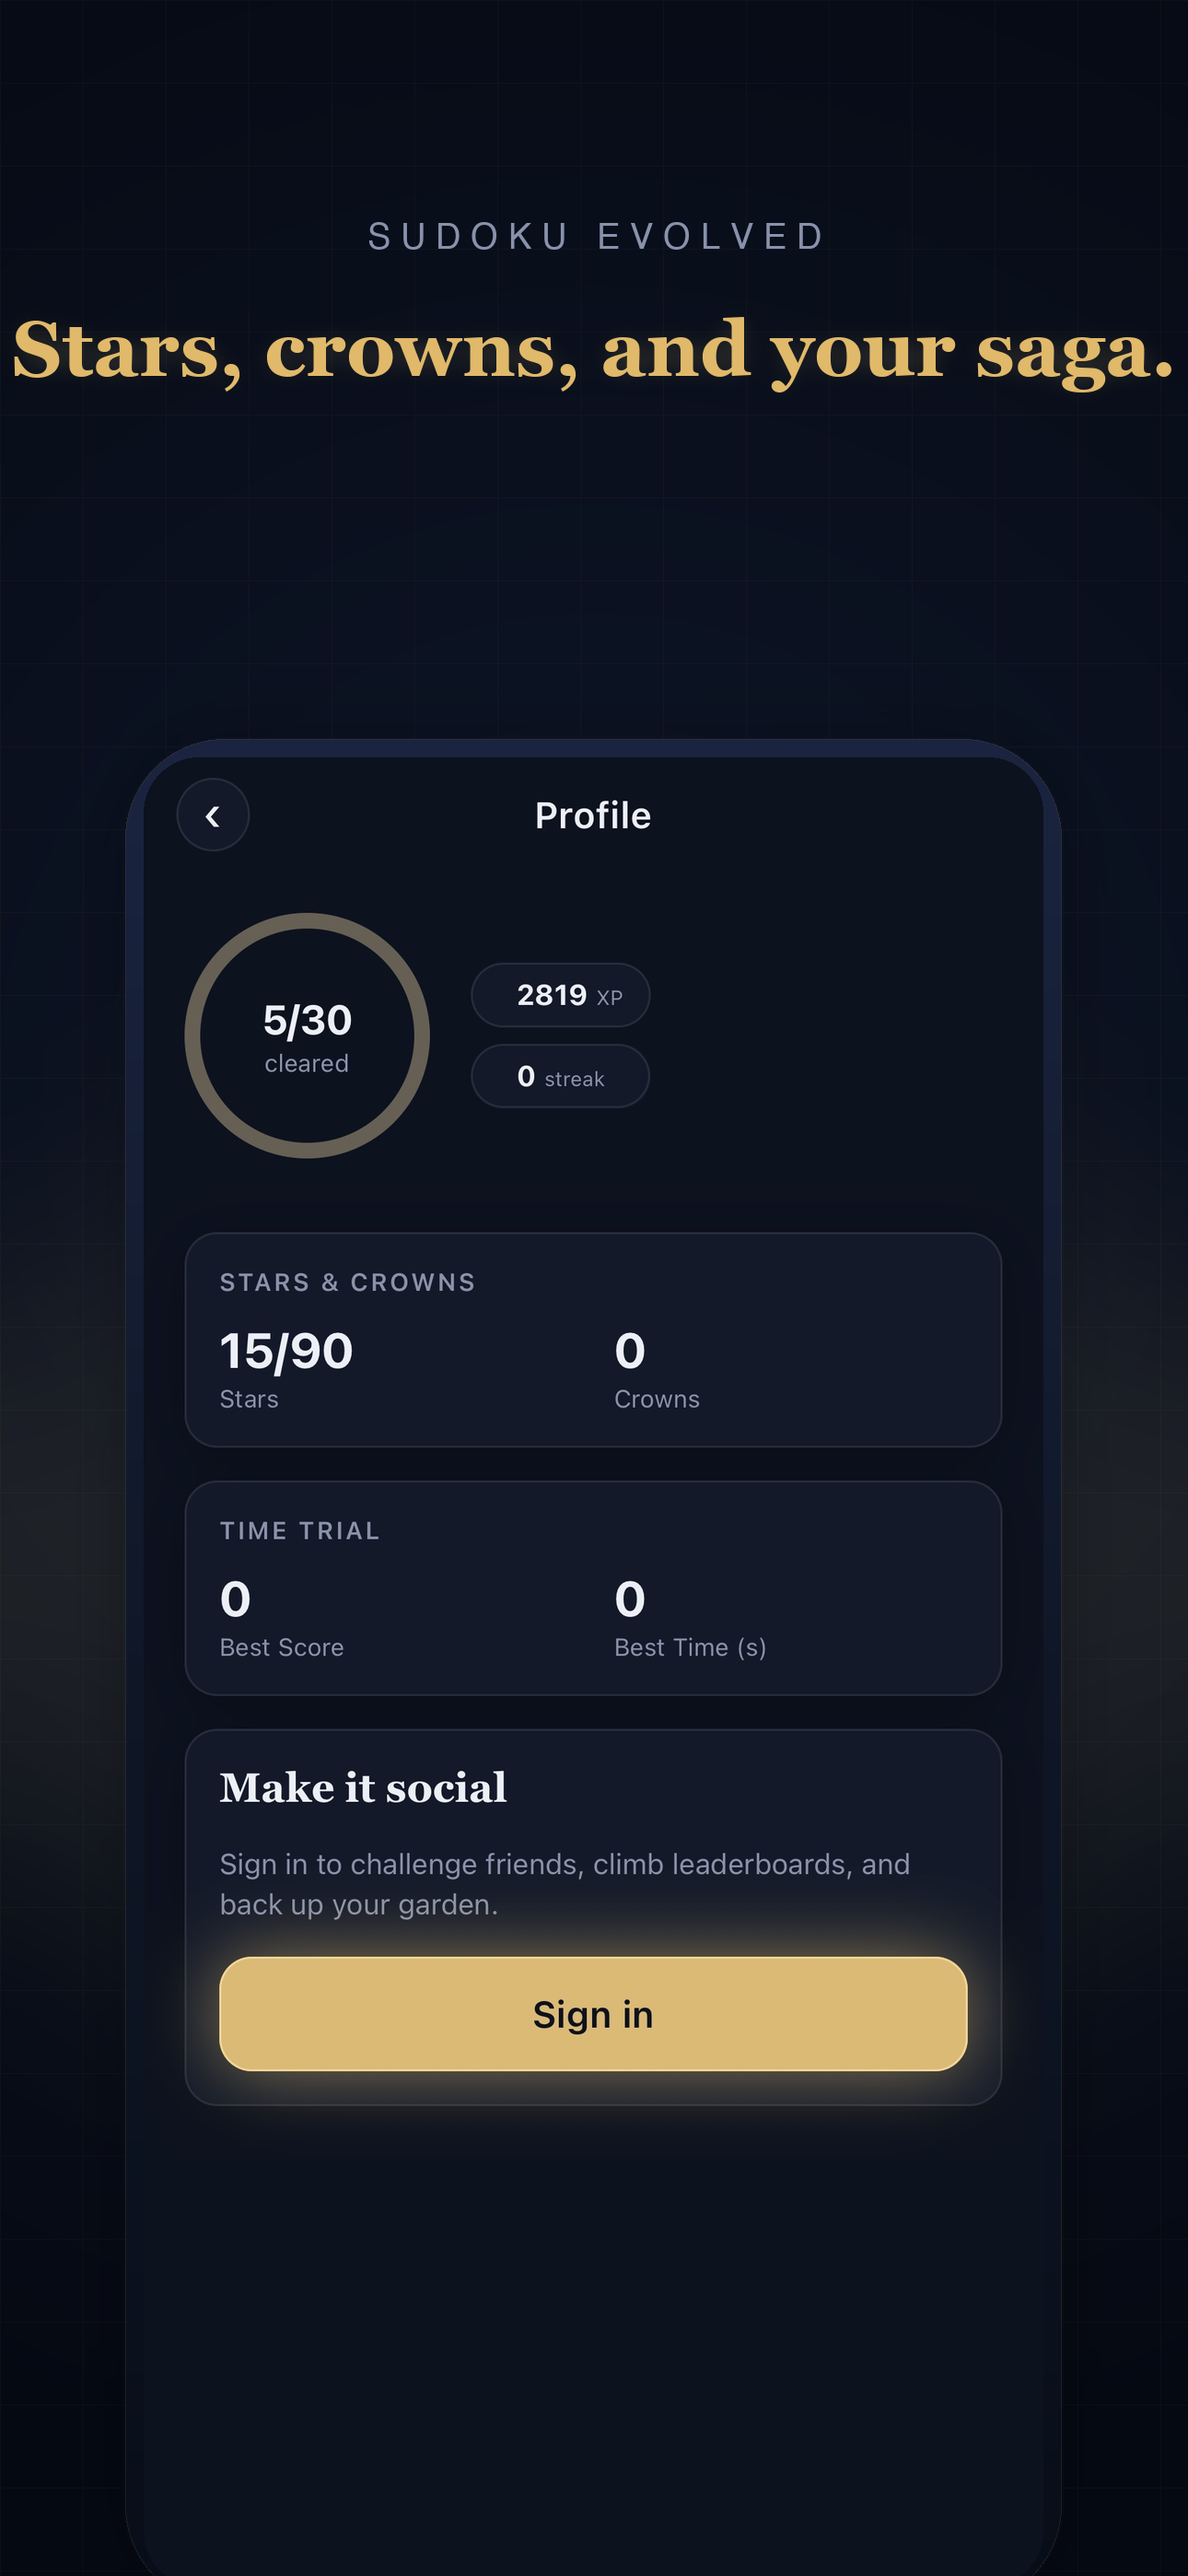
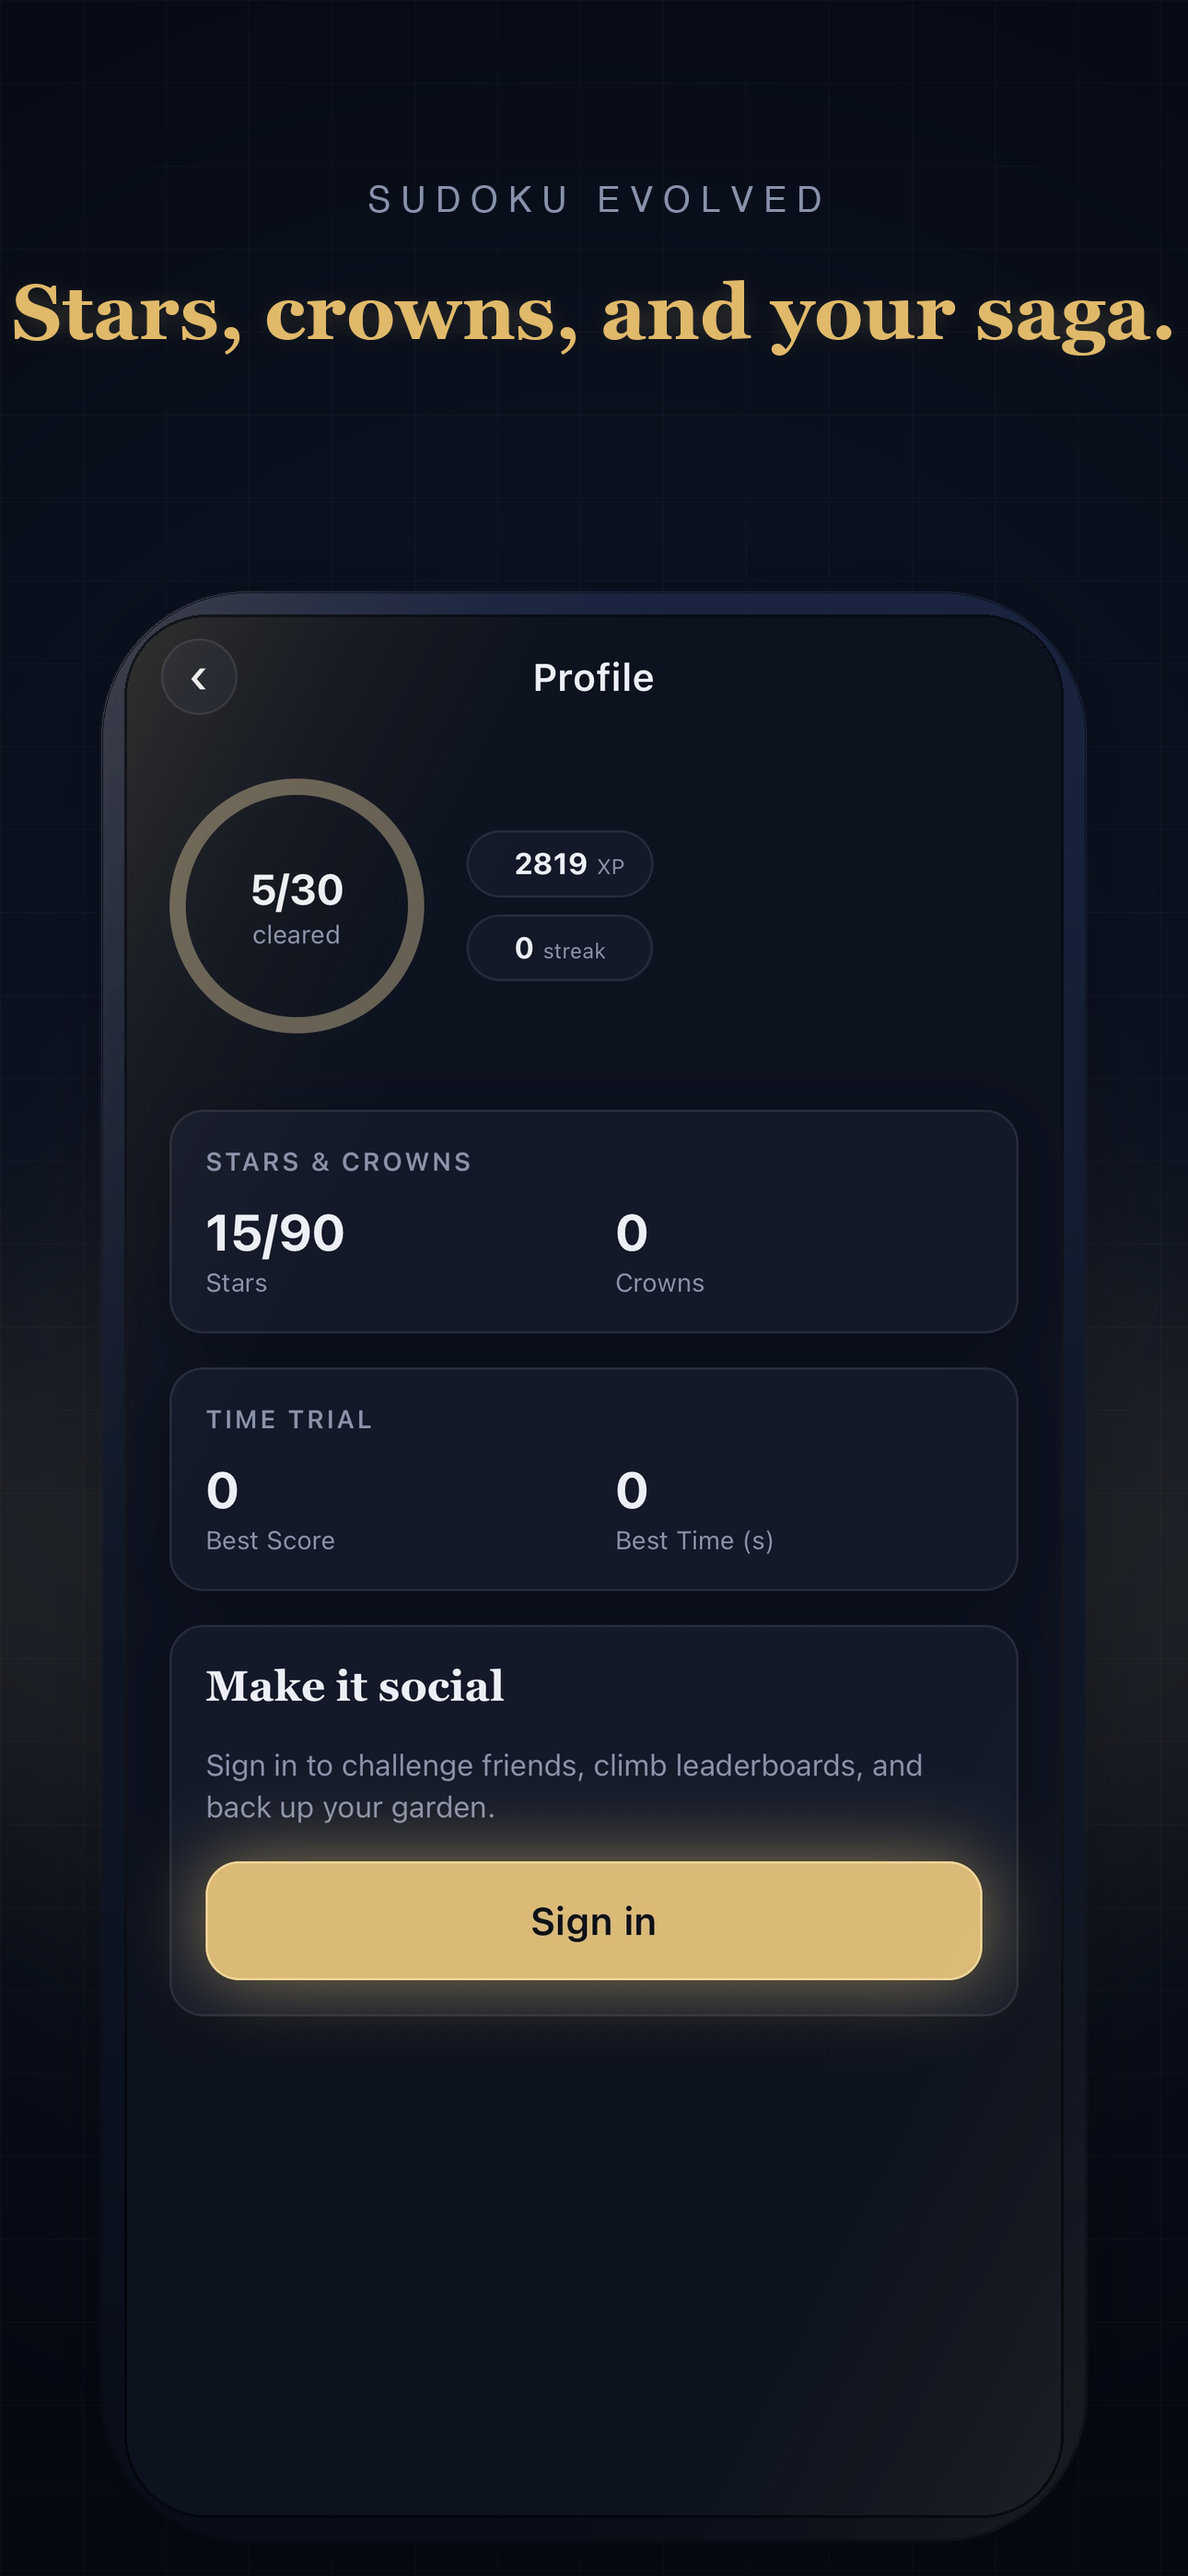
polish(screenshots): port website PhoneMockup fidelity to App Store v1
User feedback: the v2 marketing screenshots felt lower-fidelity than the
website's hero PhoneMockup. Brings the bezel rendering 1:1 with the
website's CSS so the App Store gallery feels of-a-piece with sudokuevolved.com.

Bezel:
- Outer radius now 15% of phone width (~165px on ~1100px phone) — matches
  rounded-[3rem] on the website's 320px phone (48/320 = 15%)
- Inner radius 8% (~88px) — adjusted slightly down from the website's 12%
  proportion so back-arrow chevrons at the top corners stay clear
- Padding 3.1% — matches p-[10px] on the 320px reference

Premium fidelity layers (ports of the website's CSS):
- Inset top-edge highlight (rgba(255,255,255,0.08), 1px above bezel edge)
- Inset dark inner stroke (rgba(0,0,0,0.4), ringing the screen well)
- Diagonal gold edge sheen with mask-image gradient (gold at top-left and
  bottom-right corners, transparent in the middle) — port of
  PhoneMockup.tsx's linear-gradient + mask-image trick, rendered at 1/8
  scale and bicubic-upsampled for speed

Composition:
- Phone moved up (py 720 → 560) per user feedback "top margins too high"
- Eyebrow moved up (240 → 200) for tighter caption block
- target_h bumped 2030 → 2120 so the phone has more visual presence

All 7 verified visually: back arrows visible, XP pills intact, headers
crisp, no edge clipping. Smaller files (sheen renders flat-color so
PNG compression wins).

Changed region(s): [[0.062, 0.2178, 0.9302, 0.8401], [0.0, 0.0622, 0.9922, 0.1556], [0.5271, 0.4667, 0.5581, 0.6534]]

diff --git a/scripts/generate-app-store-screenshots.py b/scripts/generate-app-store-screenshots.py
@@ -125,7 +125,7 @@ def draw_caption(canvas: Image.Image, headline: str) -> None:
     spaced = ' '.join(list(eyebrow_text))
     bbox = draw.textbbox((0, 0), spaced, font=eyebrow_font)
     tw = bbox[2] - bbox[0]
-    eyebrow_y = 240
+    eyebrow_y = 200
     draw.text(
         ((CANVAS_W - tw) / 2 - bbox[0], eyebrow_y),
         spaced,
@@ -154,33 +154,80 @@ def draw_caption(canvas: Image.Image, headline: str) -> None:
     draw.text((headline_x, headline_y), headline, font=headline_font, fill=GOLD)
 
 
-def build_phone(source: Image.Image, target_h: int = 2080) -> Image.Image:
+def _diagonal_sheen(width: int, height: int) -> Image.Image:
+    """Diagonal gold edge sheen — port of the website's PhoneMockup overlay.
+
+    Website CSS (web/src/components/ui/PhoneMockup.tsx):
+      background: linear-gradient(135deg,
+        rgba(245,213,138,0.18) 0%, transparent 30%,
+        transparent 70%, rgba(245,213,138,0.08) 100%);
+      mask-image: linear-gradient(135deg,
+        black 0%, transparent 30%, transparent 70%, black 100%);
+
+    Rendered as a low-res RGBA layer (1/8 scale) and upsampled — fast
+    enough for a one-shot script and the gradient is smooth so the
+    upscale is visually lossless.
+    """
+    sw, sh = max(8, width // 8), max(8, height // 8)
+    layer = Image.new('RGBA', (sw, sh), (0, 0, 0, 0))
+    px = layer.load()
+    for y in range(sh):
+        for x in range(sw):
+            t = (x / max(1, sw - 1) + y / max(1, sh - 1)) / 2
+            if t <= 0.3:
+                mask_alpha = 1.0 - (t / 0.3)
+            elif t >= 0.7:
+                mask_alpha = (t - 0.7) / 0.3
+            else:
+                mask_alpha = 0.0
+            if t <= 0.3:
+                color_alpha = 0.18 * (1.0 - t / 0.3)
+            elif t >= 0.7:
+                color_alpha = 0.08 * ((t - 0.7) / 0.3)
+            else:
+                color_alpha = 0.0
+            final_alpha = round(mask_alpha * color_alpha * 255)
+            if final_alpha > 0:
+                px[x, y] = (*GOLD_GLOW, final_alpha)
+    return layer.resize((width, height), Image.BICUBIC)
+
+
+def build_phone(source: Image.Image, target_h: int = 2150) -> Image.Image:
     """Compose the source screenshot inside an iPhone bezel.
 
-    Mirrors web/src/components/ui/PhoneMockup.tsx but tuned for screenshot
-    composition:
-      - Phone aspect tracks the SOURCE aspect (no cropping → no lost content
-        like back arrows or XP pills near the screen edges)
-      - inner_radius is gentle (~60px) so rounded corners don't clip UI
-        elements that sit at typical iOS edge-padding (~50px from corner)
-      - NO fake dynamic-island overlay. Sources are screen recordings that
-        already render correctly under/around the device's real DI; drawing
-        a fake DI on top covers legit content (e.g. the home-screen XP pill).
-
-    Source aspect drives phone width — main-menu (1320:2558) and others
-    (1320:2682) get slightly different phone widths, but content is
-    pixel-perfect and the variance reads as natural.
+    Visual port of web/src/components/ui/PhoneMockup.tsx — the goal is for
+    these App Store screenshots to feel of-a-piece with the website's hero:
+      - Outer aspect tracks the SOURCE aspect (preserves content; the
+        website uses a fixed 9:19.5 because its content is synthetic SVG)
+      - Outer radius matches the website's 15% proportion (rounded-[3rem]
+        on a 320px-wide phone = 48px = 15%) — at our ~1100px phone width
+        that's ~165px
+      - Inner radius is the website's 12% proportion adjusted slightly
+        smaller (8%) so back-arrow chevrons that sit ~40-100px from the
+        corner stay visible; on a real device iOS' display-corner masking
+        would clip the same area.
+      - 3-stop bezel gradient #1a2440 → #0f1727 → #080d18 (verbatim)
+      - Inset top-edge highlight + dark inner stroke (mirrors the website's
+        shadow-[inset_0_1px_0_rgba(255,255,255,0.08),
+                inset_0_0_0_2px_rgba(0,0,0,0.4)])
+      - Diagonal gold edge sheen via _diagonal_sheen()
+      - Soft drop shadow
+      - NO fake dynamic island — overlaying one would cover real screen
+        content (Main Menu's XP pill renders in the safe area beside the
+        OS DI cutout)
     """
     src_aspect = source.width / source.height
-    bezel_pad = 22
     phone_h = target_h
+    # Padding tracks website's 10/320 = 3.1% of width
+    inner_h_estimate = phone_h * 0.94
+    inner_w_estimate = round(inner_h_estimate * src_aspect)
+    bezel_pad = max(24, round(inner_w_estimate * 0.031))
     inner_h = phone_h - 2 * bezel_pad
     inner_w = round(inner_h * src_aspect)
     phone_w = inner_w + 2 * bezel_pad
 
-    outer_radius = 110
-    inner_radius = 60  # Gentle — iPhone 16 Pro Max display radius equivalent
-                       # at this scale; back arrows at (~50, 40) stay clear.
+    outer_radius = round(phone_w * 0.15)   # ~165px on ~1100px phone
+    inner_radius = round(phone_w * 0.08)   # ~88px — clear of back arrows
 
     # ── 1. Drop shadow (blurred dark ellipse below the phone) ──────────────
     shadow_pad = 80
@@ -218,7 +265,7 @@ def build_phone(source: Image.Image, target_h: int = 2080) -> Image.Image:
     bm_draw.rounded_rectangle((0, 0, phone_w - 1, phone_h - 1), radius=outer_radius, fill=255)
     bezel.paste(bezel_fill, (0, 0), bezel_mask)
 
-    # Hairline border on bezel (rgba(255,255,255,0.08))
+    # Hairline border on bezel (matches `border border-[rgba(255,255,255,0.08)]`)
     bd = ImageDraw.Draw(bezel)
     bd.rounded_rectangle(
         (0, 0, phone_w - 1, phone_h - 1),
@@ -227,34 +274,45 @@ def build_phone(source: Image.Image, target_h: int = 2080) -> Image.Image:
         width=2,
     )
 
-    # ── 3. Inner screen with the source screenshot ─────────────────────────
-    # Resize source EXACTLY to the inner viewport. Inner aspect tracks
-    # source aspect (computed earlier), so no cropping or letterboxing is
-    # needed — every pixel of the source survives. This keeps the back arrow
-    # (top-left) and XP pill (top-right) intact.
-    src_resized = source.resize((inner_w, inner_h), Image.LANCZOS).convert('RGBA')
+    # Inset top-edge highlight strip (the website's
+    # `inset 0 1px 0 rgba(255,255,255,0.08)` shadow). Drawn as a thin
+    # rounded rectangle just inside the bezel edge.
+    bd.rounded_rectangle(
+        (3, 3, phone_w - 4, phone_h - 4),
+        radius=outer_radius - 3,
+        outline=(255, 255, 255, 22),
+        width=1,
+    )
 
-    # Round inner-screen corners via gentle mask (radius=60 — clear of
-    # back-arrow chevrons that sit ~50px from the corner).
+    # Inset dark inner stroke (the website's `inset 0 0 0 2px rgba(0,0,0,0.4)`).
+    # Sits just inside the bezel padding to suggest the screen well's depth.
+    bd.rounded_rectangle(
+        (bezel_pad - 3, bezel_pad - 3,
+         phone_w - bezel_pad + 2, phone_h - bezel_pad + 2),
+        radius=inner_radius + 3,
+        outline=(0, 0, 0, 110),
+        width=3,
+    )
+
+    # ── 3. Inner screen with the source screenshot ─────────────────────────
+    # Resize source EXACTLY to the inner viewport (no cropping — preserves
+    # back arrows, XP pills, etc.).
+    src_resized = source.resize((inner_w, inner_h), Image.LANCZOS).convert('RGBA')
     screen_mask = Image.new('L', (inner_w, inner_h), 0)
     ImageDraw.Draw(screen_mask).rounded_rectangle(
         (0, 0, inner_w - 1, inner_h - 1), radius=inner_radius, fill=255,
     )
     bezel.paste(src_resized, (bezel_pad, bezel_pad), screen_mask)
 
-    # NOTE: no fake dynamic-island overlay. The source already represents
-    # the real device's screen content — drawing a black pill on top covers
-    # legitimate UI elements (e.g. the home-screen XP pill on Main Menu
-    # which renders in the safe area beneath the OS DI cutout).
+    # ── 4. Diagonal gold edge sheen ────────────────────────────────────────
+    # Port of PhoneMockup's gradient + mask-image overlay (see _diagonal_sheen).
+    sheen = _diagonal_sheen(phone_w, phone_h)
+    # Clip the sheen to the bezel's rounded shape so it doesn't bleed outside
+    sheen_clipped = Image.new('RGBA', (phone_w, phone_h), (0, 0, 0, 0))
+    sheen_clipped.paste(sheen, (0, 0), bezel_mask)
+    bezel = Image.alpha_composite(bezel, sheen_clipped)
 
-    # ── 4. Gold edge sheen (top-left highlight, bottom-right rim) ──────────
-    sheen = Image.new('RGBA', (phone_w, phone_h), (0, 0, 0, 0))
-    sd = ImageDraw.Draw(sheen)
-    sd.rounded_rectangle((0, 0, phone_w - 1, phone_h - 1), radius=outer_radius,
-                         outline=(*GOLD_GLOW, 35), width=3)
-    bezel.paste(sheen, (0, 0), sheen)
-
-    # ── 6. Compose shadow + phone ──────────────────────────────────────────
+    # ── 5. Compose shadow + phone ──────────────────────────────────────────
     out = Image.new('RGBA', shadow.size, (0, 0, 0, 0))
     out.paste(shadow, (0, 0), shadow)
     out.paste(bezel, (shadow_pad, shadow_pad), bezel)
@@ -268,9 +326,13 @@ def render_screenshot(zip_obj: zipfile.ZipFile, slug: str, caption: str, idx: in
     canvas = build_backdrop()
     draw_caption(canvas, caption)
 
-    phone = build_phone(source, target_h=2030)
+    # Phone target_h: tuned so the bottom of the bezel sits ~80-100px above
+    # the canvas bottom edge. py=560 puts the top of the phone ~200px below
+    # the headline baseline (tighter than the previous 720 → 720-560 = 160px
+    # less white space between caption and phone, per user feedback).
+    phone = build_phone(source, target_h=2120)
     px = (CANVAS_W - phone.width) // 2
-    py = 720
+    py = 560
     canvas.paste(phone.convert('RGBA'), (px, py), phone)
 
     out_slug = slug.lower().replace('--', '-')
